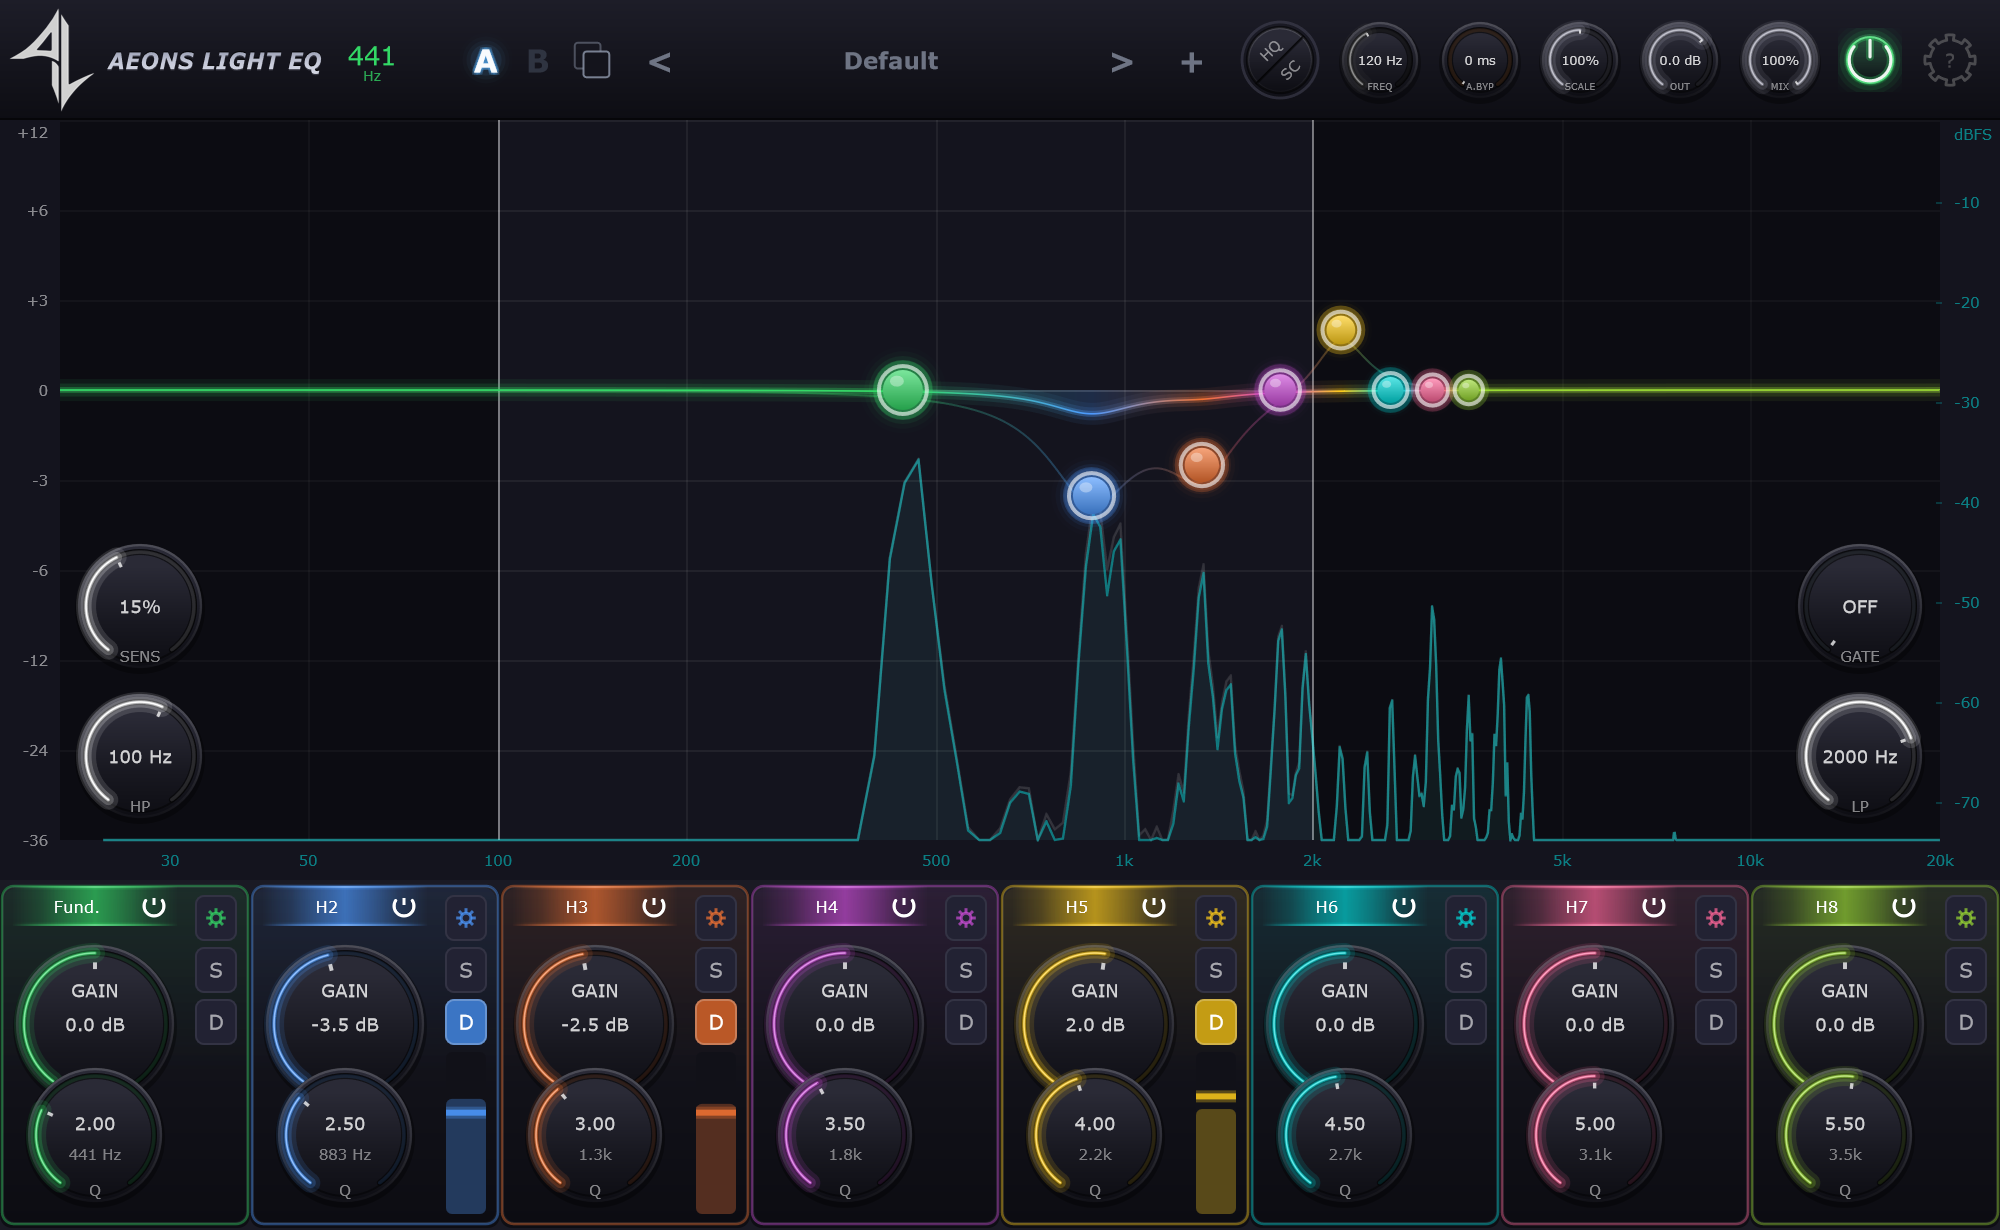
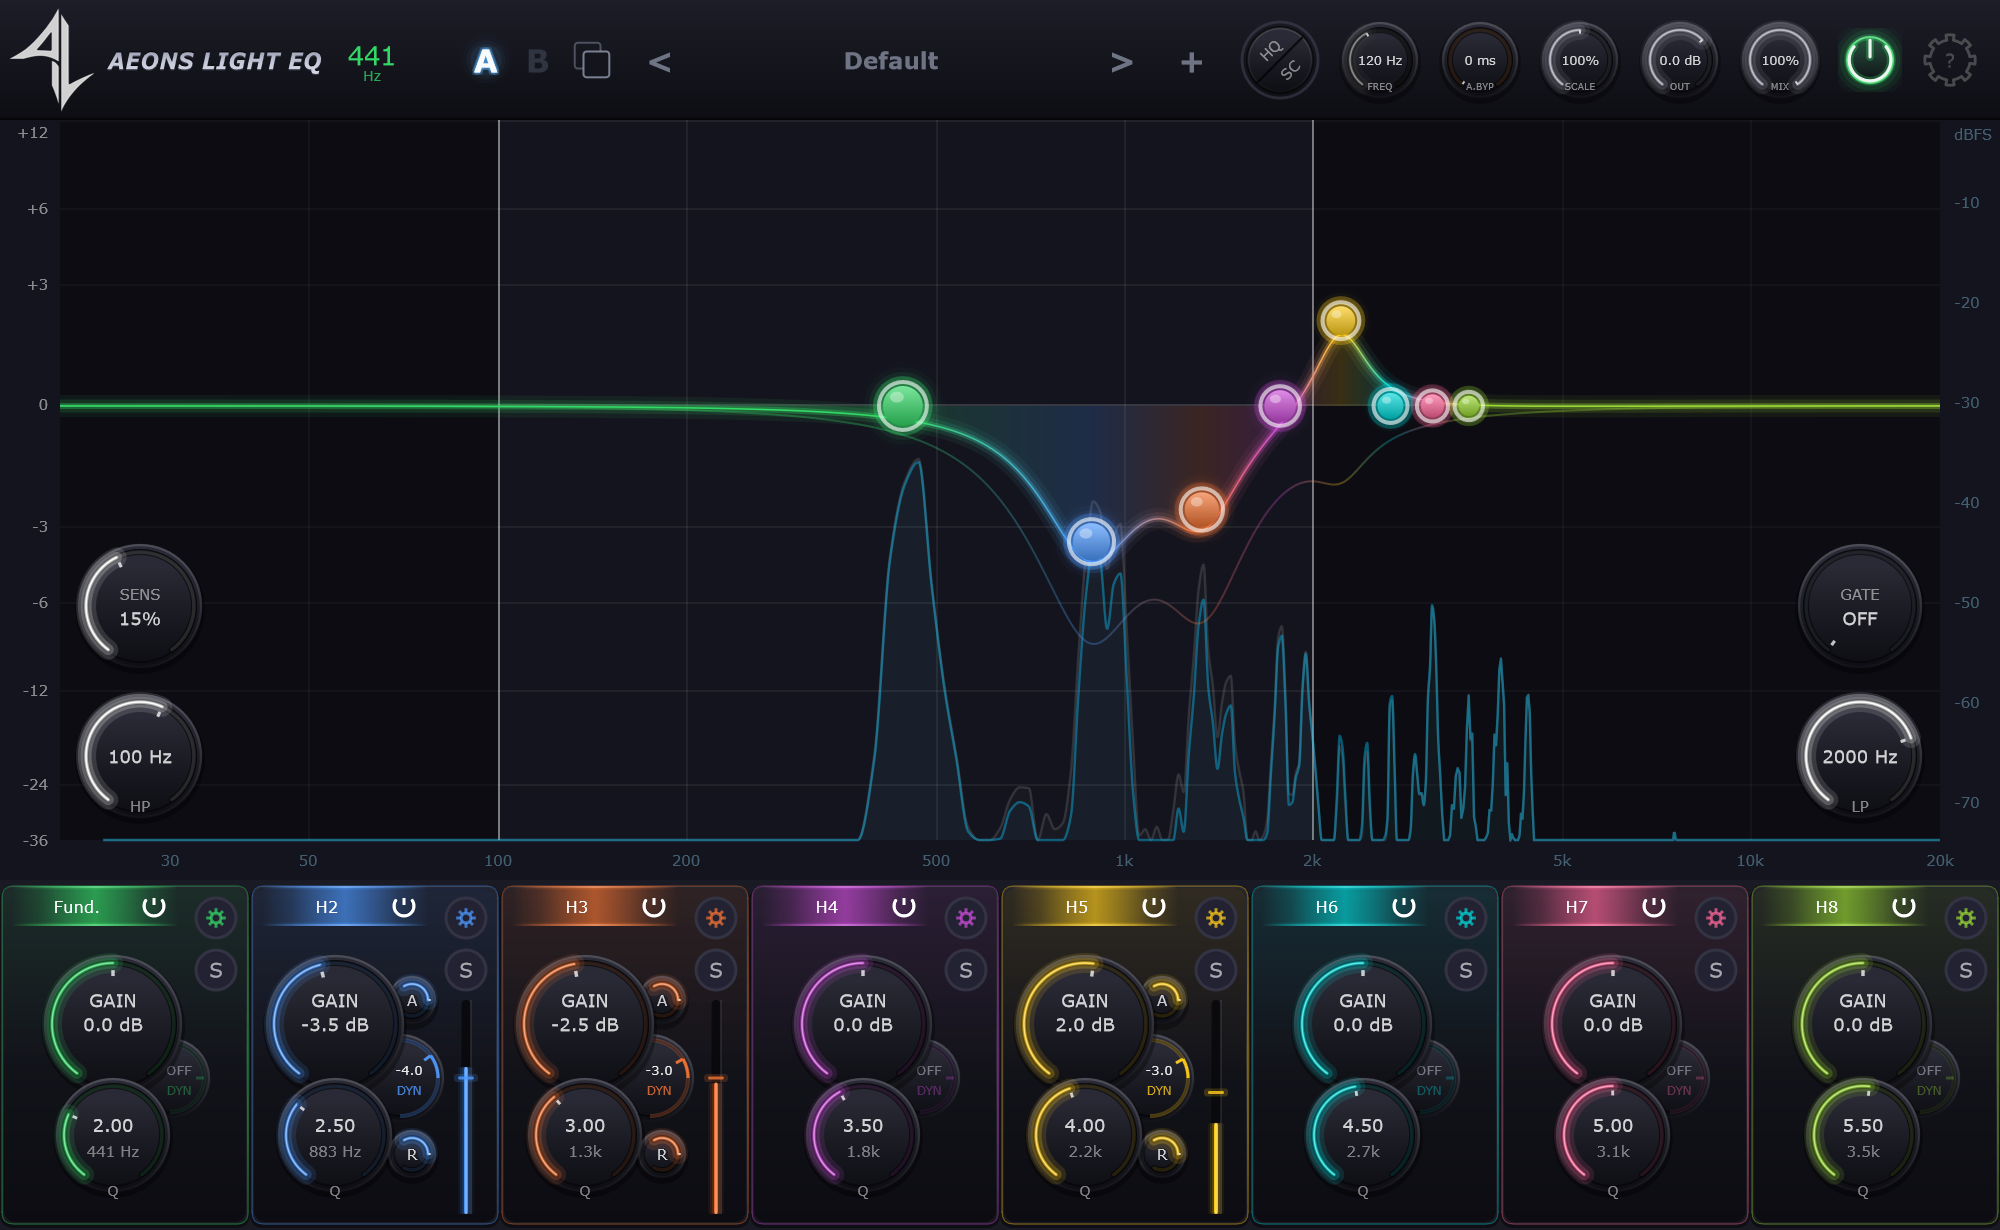
Document 2.1.0 features and refresh plugin screenshots

diff --git a/README.md b/README.md
@@ -11,14 +11,17 @@ Aeons Light EQ automatically detects the fundamental frequency of your audio and
 - **Follows Every Note** — bands lock onto the fundamental and ride the harmonic series in real time
 - **8 Configurable Bands** - any harmonic, sub-harmonic, musical interval or custom multiplier, as a
   bell, shelf, notch, high pass or low pass, at 6 to 48 dB/oct
-- **Dynamic Mode** — per-band threshold gating applies EQ only when harmonics exceed your set level
-- **Live Spectrum Analyzer** — pre/post FFT display with draggable nodes and bell curve visualization
+- **Shape tone and control peaks independently** — combine a permanent boost or cut with separate dynamic adjustment.
+- **Set how each band reacts** — tailor Attack and Release for punch, control, or sustained movement.
+- **Advanced tracking controls** — lookahead and smoothing help track even the toughest material. Enable them in Settings.
+- **Now available for Pro Tools** — AAX joins VST3, AU, and CLAP.
+- **Live Spectrum Analyzer** — live spectrum with adjustable color, draggable nodes and an EQ response curve
 - **Solo Audition** — isolate any band to hear exactly what the EQ is doing
 - **Frequency Lock** — manual frequency override for drones, synths, and single-note processing
 - **Sidechain or MIDI** - take the pitch from another track, or from MIDI notes where detection
   would struggle: a chord, a noisy mic, heavy distortion
 - **Pitch-to-MIDI** - export the tracked note as MIDI, with level-based velocity and attack retriggering.
-- **79 Factory Presets** - vocal, guitar, bass, drums, de-harsh, creative, mastering, advanced, plus
+- **Factory Presets** - vocal, guitar, bass, drums, de-harsh, creative, mastering, advanced, plus
   band layouts that place the bands and leave the sound alone
 
 ### EQ with Harmonic Tracking
@@ -47,9 +50,21 @@ Aeons Light EQ automatically detects the fundamental frequency of your audio and
 | **macOS** | [Download Installer (.pkg)](https://github.com/aeons-light/aeons-light-eq-releases/releases/latest/download/AeonsLightEQ-macOS-Installer.pkg) |
 | **Linux** | [Download VST3](https://github.com/aeons-light/aeons-light-eq-releases/releases/latest/download/AeonsLightEQ-Linux-VST3.zip) · [Download CLAP](https://github.com/aeons-light/aeons-light-eq-releases/releases/latest/download/AeonsLightEQ-Linux-CLAP.zip) |
 
-> Try it free with full functionality. Purchase a license at [aeonslight.com](https://www.aeonslight.com) to unlock.
+> Try it free with full functionality. A lifetime license from [aeonslight.com](https://www.aeonslight.com) removes the countdown screen.
 
 ## Changelog
+
+### v2.1.0 (2026-11-09)
+
+- **AAX support** for Pro Tools on Windows and macOS.
+- **Independent dynamic gain**, with per-band Attack and Release controls.
+- **Lookahead controls** — enabled in Settings.
+- **Smoothing controls** — enabled in Settings.
+- **Custom analyzer colors** and refreshed interface styling.
+- **Updated factory presets.**
+- Various bug fixes.
+
+[All releases and full release notes](https://github.com/aeons-light/aeons-light-eq-releases/releases)
 
 ### v2.0.0 (2026-10-15)
 
@@ -276,9 +291,9 @@ Various bug fixes and refinements.
 ## System Requirements
 
 - Windows 10+ (64-bit)
-- macOS 10.13+ (Intel), macOS 11+ (Apple Silicon)
-- Linux (64-bit)
-- Any DAW supporting VST3, CLAP, or AU
+- macOS 10.13+ (Intel), macOS 11+ (Apple Silicon); AAX requires macOS 11+ on either architecture
+- Linux: Ubuntu 22.04+ or equivalent (64-bit)
+- A compatible DAW supporting VST3, CLAP, AU or AAX; AAX is included on Windows and macOS
 
 ## License
 
